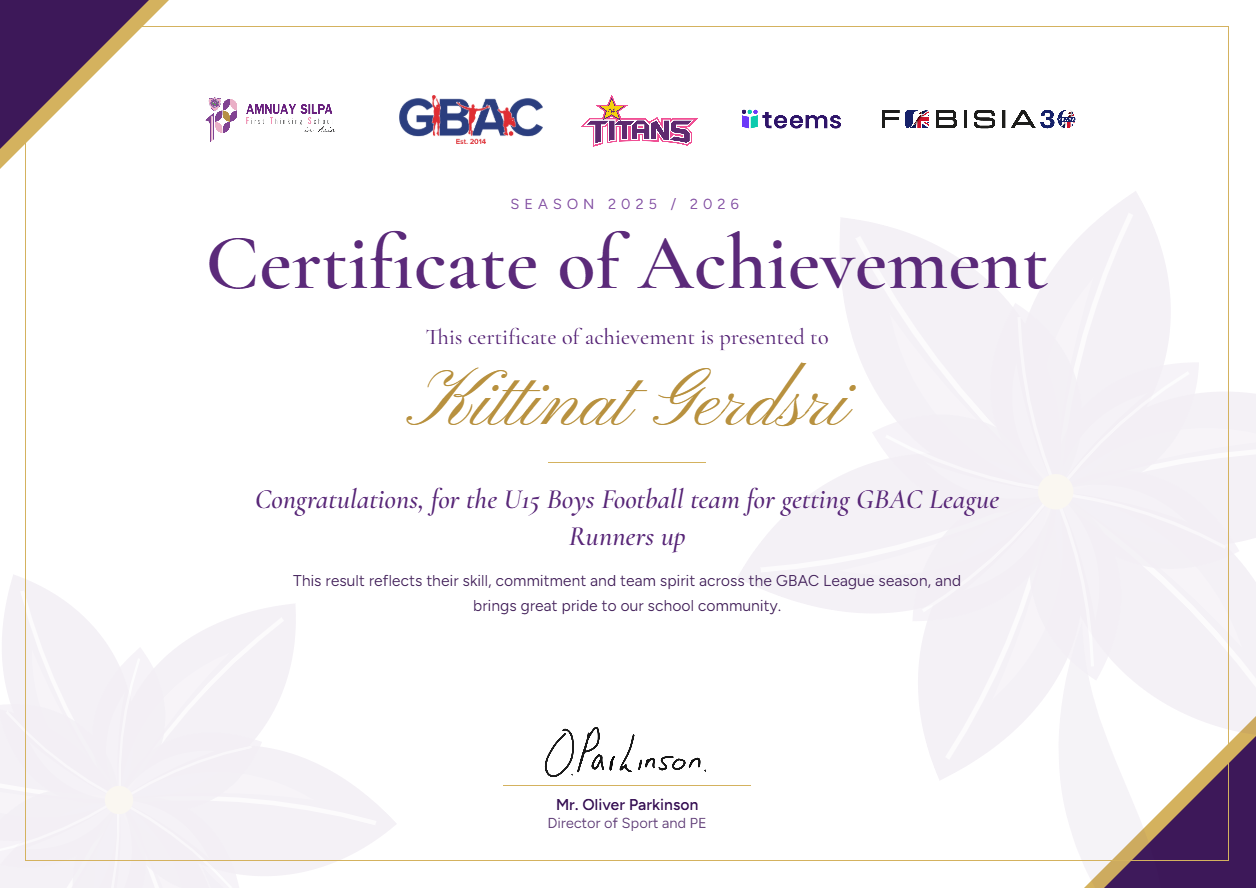
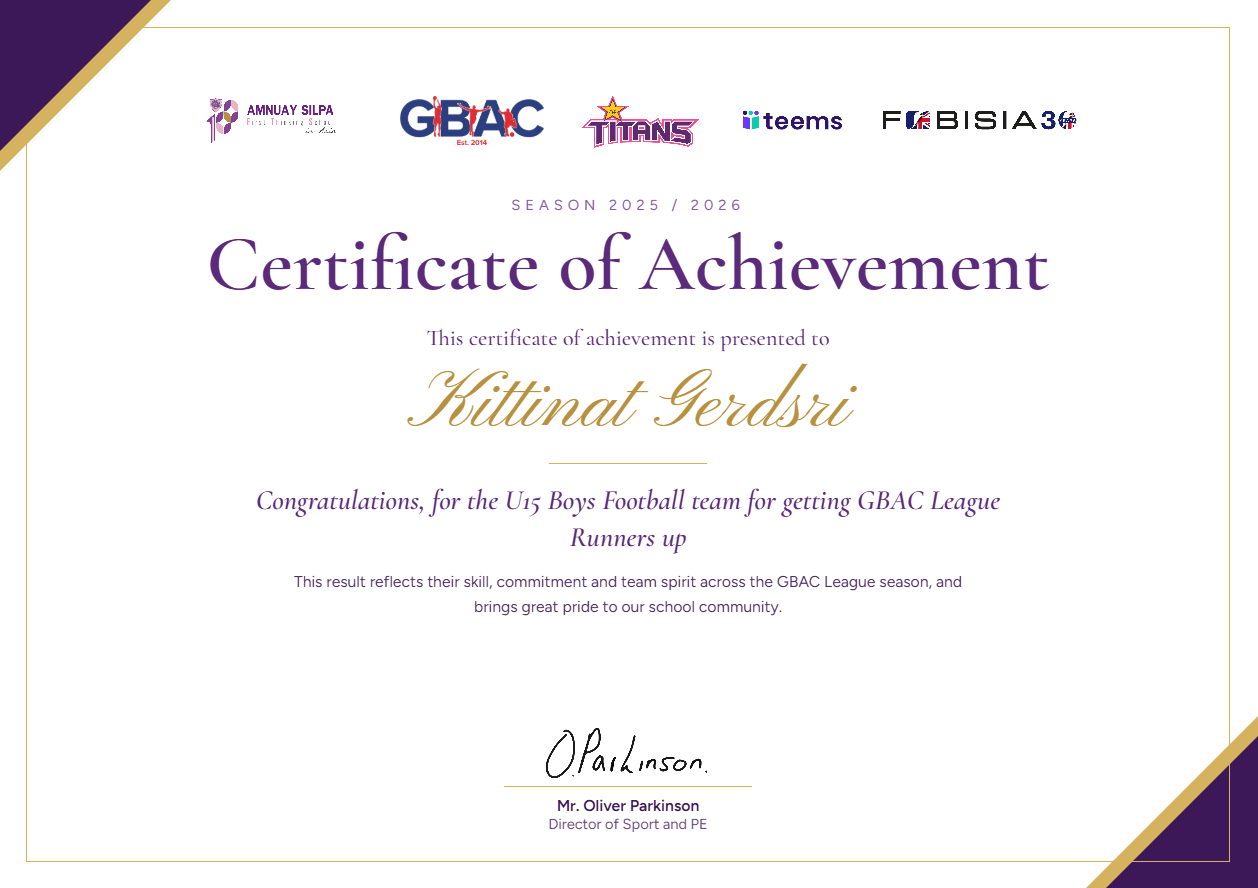
Update the U15 GBAC League Runners-Up certificate image

diff --git a/sports.html b/sports.html
@@ -16,7 +16,7 @@
 <meta name="apple-mobile-web-app-title" content="Kittinat Gerdsri">
 <link rel="manifest" href="manifest.json">
 <meta name="theme-color" content="#eef1f5">
-<link rel="stylesheet" href="assets/css/style.css?v=1791966907">
+<link rel="stylesheet" href="assets/css/style.css?v=1791967325">
 </head>
 <body class="page-core-discipline">
 
@@ -175,7 +175,7 @@
             </div>
             <div class="locker-face locker-back">
               <figure data-date="2026-05-01" data-year="2026" data-award="silver" data-caption="GBAC League, U15, Boys, Football">
-                <img src="assets/img/pages/sports/awards-06-gbac-u15-football-runners-up.png" alt="Certificate — GBAC League, U15, Boys, Football, Runners-Up" data-full="assets/img/pages/sports/awards-06-gbac-u15-football-runners-up.png">
+                <img src="assets/img/pages/sports/awards-06-gbac-u15-football-runners-up.png?v=1791967325" alt="Certificate — GBAC League, U15, Boys, Football, Runners-Up" data-full="assets/img/pages/sports/awards-06-gbac-u15-football-runners-up.png?v=1791967325">
               </figure>
             </div>
           </div>
@@ -273,7 +273,7 @@
 </div>
 
 <script>document.getElementById('year').textContent = new Date().getFullYear();</script>
-  <script src="assets/js/translations.js?v=1791966907"></script>
-  <script src="assets/js/main.js?v=1791966907"></script>
+  <script src="assets/js/translations.js?v=1791967325"></script>
+  <script src="assets/js/main.js?v=1791967325"></script>
 </body>
 </html>

diff --git a/core-discipline.html b/core-discipline.html
@@ -16,7 +16,7 @@
 <meta name="apple-mobile-web-app-title" content="Kittinat Gerdsri">
 <link rel="manifest" href="manifest.json">
 <meta name="theme-color" content="#eef1f5">
-<link rel="stylesheet" href="assets/css/style.css?v=1791966907">
+<link rel="stylesheet" href="assets/css/style.css?v=1791967325">
 </head>
 <body class="page-core-discipline">
 
@@ -360,7 +360,7 @@
 </div>
 
 <script>document.getElementById('year').textContent = new Date().getFullYear();</script>
-  <script src="assets/js/translations.js?v=1791966907"></script>
-  <script src="assets/js/main.js?v=1791966907"></script>
+  <script src="assets/js/translations.js?v=1791967325"></script>
+  <script src="assets/js/main.js?v=1791967325"></script>
 </body>
 </html>

diff --git a/graphics-drawing.html b/graphics-drawing.html
@@ -18,7 +18,7 @@
 <meta name="apple-mobile-web-app-title" content="Kittinat Gerdsri">
 <link rel="manifest" href="manifest.json">
 <meta name="theme-color" content="#eef1f5">
-  <link rel="stylesheet" href="assets/css/style.css?v=1791966907">
+  <link rel="stylesheet" href="assets/css/style.css?v=1791967325">
 </head>
 
 <body>
@@ -261,8 +261,8 @@
   </div>
 
   <script>document.getElementById('year').textContent = new Date().getFullYear();</script>
-  <script src="assets/js/translations.js?v=1791966907"></script>
-  <script src="assets/js/main.js?v=1791966907"></script>
+  <script src="assets/js/translations.js?v=1791967325"></script>
+  <script src="assets/js/main.js?v=1791967325"></script>
 </body>
 
 </html>

diff --git a/index.html b/index.html
@@ -16,7 +16,7 @@
 <meta name="apple-mobile-web-app-title" content="Kittinat Gerdsri">
 <link rel="manifest" href="manifest.json">
 <meta name="theme-color" content="#eef1f5">
-<link rel="stylesheet" href="assets/css/style.css?v=1791966907">
+<link rel="stylesheet" href="assets/css/style.css?v=1791967325">
 </head>
 <body>
 
@@ -242,7 +242,7 @@
   </div>
 
 <script>document.getElementById('year').textContent = new Date().getFullYear();</script>
-  <script src="assets/js/translations.js?v=1791966907"></script>
-  <script src="assets/js/main.js?v=1791966907"></script>
+  <script src="assets/js/translations.js?v=1791967325"></script>
+  <script src="assets/js/main.js?v=1791967325"></script>
 </body>
 </html>

diff --git a/privacy.html b/privacy.html
@@ -16,7 +16,7 @@
 <meta name="apple-mobile-web-app-title" content="Kittinat Gerdsri">
 <link rel="manifest" href="manifest.json">
 <meta name="theme-color" content="#eef1f5">
-<link rel="stylesheet" href="assets/css/style.css?v=1791966907">
+<link rel="stylesheet" href="assets/css/style.css?v=1791967325">
 </head>
 <body>
 
@@ -155,7 +155,7 @@
   </div>
 
 <script>document.getElementById('year').textContent = new Date().getFullYear();</script>
-  <script src="assets/js/translations.js?v=1791966907"></script>
-  <script src="assets/js/main.js?v=1791966907"></script>
+  <script src="assets/js/translations.js?v=1791967325"></script>
+  <script src="assets/js/main.js?v=1791967325"></script>
 </body>
 </html>

diff --git a/terms.html b/terms.html
@@ -16,7 +16,7 @@
 <meta name="apple-mobile-web-app-title" content="Kittinat Gerdsri">
 <link rel="manifest" href="manifest.json">
 <meta name="theme-color" content="#eef1f5">
-<link rel="stylesheet" href="assets/css/style.css?v=1791966907">
+<link rel="stylesheet" href="assets/css/style.css?v=1791967325">
 </head>
 <body>
 
@@ -148,7 +148,7 @@
   </div>
 
 <script>document.getElementById('year').textContent = new Date().getFullYear();</script>
-  <script src="assets/js/translations.js?v=1791966907"></script>
-  <script src="assets/js/main.js?v=1791966907"></script>
+  <script src="assets/js/translations.js?v=1791967325"></script>
+  <script src="assets/js/main.js?v=1791967325"></script>
 </body>
 </html>

diff --git a/3d-design-animation.html b/3d-design-animation.html
@@ -16,7 +16,7 @@
 <meta name="apple-mobile-web-app-title" content="Kittinat Gerdsri">
 <link rel="manifest" href="manifest.json">
 <meta name="theme-color" content="#eef1f5">
-<link rel="stylesheet" href="assets/css/style.css?v=1791966907">
+<link rel="stylesheet" href="assets/css/style.css?v=1791967325">
 </head>
 <body>
 
@@ -168,7 +168,7 @@
 </div>
 
 <script>document.getElementById('year').textContent = new Date().getFullYear();</script>
-  <script src="assets/js/translations.js?v=1791966907"></script>
-  <script src="assets/js/main.js?v=1791966907"></script>
+  <script src="assets/js/translations.js?v=1791967325"></script>
+  <script src="assets/js/main.js?v=1791967325"></script>
 </body>
 </html>

diff --git a/ai-coding.html b/ai-coding.html
@@ -16,7 +16,7 @@
 <meta name="apple-mobile-web-app-title" content="Kittinat Gerdsri">
 <link rel="manifest" href="manifest.json">
 <meta name="theme-color" content="#eef1f5">
-<link rel="stylesheet" href="assets/css/style.css?v=1791966907">
+<link rel="stylesheet" href="assets/css/style.css?v=1791967325">
 </head>
 <body>
 
@@ -261,7 +261,7 @@
 </div>
 
 <script>document.getElementById('year').textContent = new Date().getFullYear();</script>
-  <script src="assets/js/translations.js?v=1791966907"></script>
-  <script src="assets/js/main.js?v=1791966907"></script>
+  <script src="assets/js/translations.js?v=1791967325"></script>
+  <script src="assets/js/main.js?v=1791967325"></script>
 </body>
 </html>

diff --git a/f1-animation-v1.html b/f1-animation-v1.html
@@ -16,7 +16,7 @@
 <meta name="apple-mobile-web-app-title" content="Kittinat Gerdsri">
 <link rel="manifest" href="manifest.json">
 <meta name="theme-color" content="#eef1f5">
-<link rel="stylesheet" href="assets/css/style.css?v=1791966907">
+<link rel="stylesheet" href="assets/css/style.css?v=1791967325">
 </head>
 <body>
 
@@ -177,7 +177,7 @@
 </div>
 
 <script>document.getElementById('year').textContent = new Date().getFullYear();</script>
-  <script src="assets/js/translations.js?v=1791966907"></script>
-  <script src="assets/js/main.js?v=1791966907"></script>
+  <script src="assets/js/translations.js?v=1791967325"></script>
+  <script src="assets/js/main.js?v=1791967325"></script>
 </body>
 </html>

diff --git a/f1-animation.html b/f1-animation.html
@@ -16,7 +16,7 @@
 <meta name="apple-mobile-web-app-title" content="Kittinat Gerdsri">
 <link rel="manifest" href="manifest.json">
 <meta name="theme-color" content="#eef1f5">
-<link rel="stylesheet" href="assets/css/style.css?v=1791966907">
+<link rel="stylesheet" href="assets/css/style.css?v=1791967325">
 </head>
 <body>
 
@@ -257,7 +257,7 @@
 </div>
 
 <script>document.getElementById('year').textContent = new Date().getFullYear();</script>
-  <script src="assets/js/translations.js?v=1791966907"></script>
-  <script src="assets/js/main.js?v=1791966907"></script>
+  <script src="assets/js/translations.js?v=1791967325"></script>
+  <script src="assets/js/main.js?v=1791967325"></script>
 </body>
 </html>

diff --git a/gofitr.html b/gofitr.html
@@ -16,7 +16,7 @@
 <meta name="apple-mobile-web-app-title" content="Kittinat Gerdsri">
 <link rel="manifest" href="manifest.json">
 <meta name="theme-color" content="#eef1f5">
-<link rel="stylesheet" href="assets/css/style.css?v=1791966907">
+<link rel="stylesheet" href="assets/css/style.css?v=1791967325">
 </head>
 <body>
 
@@ -203,7 +203,7 @@
 </div>
 
 <script>document.getElementById('year').textContent = new Date().getFullYear();</script>
-  <script src="assets/js/translations.js?v=1791966907"></script>
-  <script src="assets/js/main.js?v=1791966907"></script>
+  <script src="assets/js/translations.js?v=1791967325"></script>
+  <script src="assets/js/main.js?v=1791967325"></script>
 </body>
 </html>

diff --git a/magnolia.html b/magnolia.html
@@ -16,7 +16,7 @@
 <meta name="apple-mobile-web-app-title" content="Kittinat Gerdsri">
 <link rel="manifest" href="manifest.json">
 <meta name="theme-color" content="#eef1f5">
-<link rel="stylesheet" href="assets/css/style.css?v=1791966907">
+<link rel="stylesheet" href="assets/css/style.css?v=1791967325">
 </head>
 <body>
 
@@ -217,7 +217,7 @@
 </div>
 
 <script>document.getElementById('year').textContent = new Date().getFullYear();</script>
-  <script src="assets/js/translations.js?v=1791966907"></script>
-  <script src="assets/js/main.js?v=1791966907"></script>
+  <script src="assets/js/translations.js?v=1791967325"></script>
+  <script src="assets/js/main.js?v=1791967325"></script>
 </body>
 </html>
